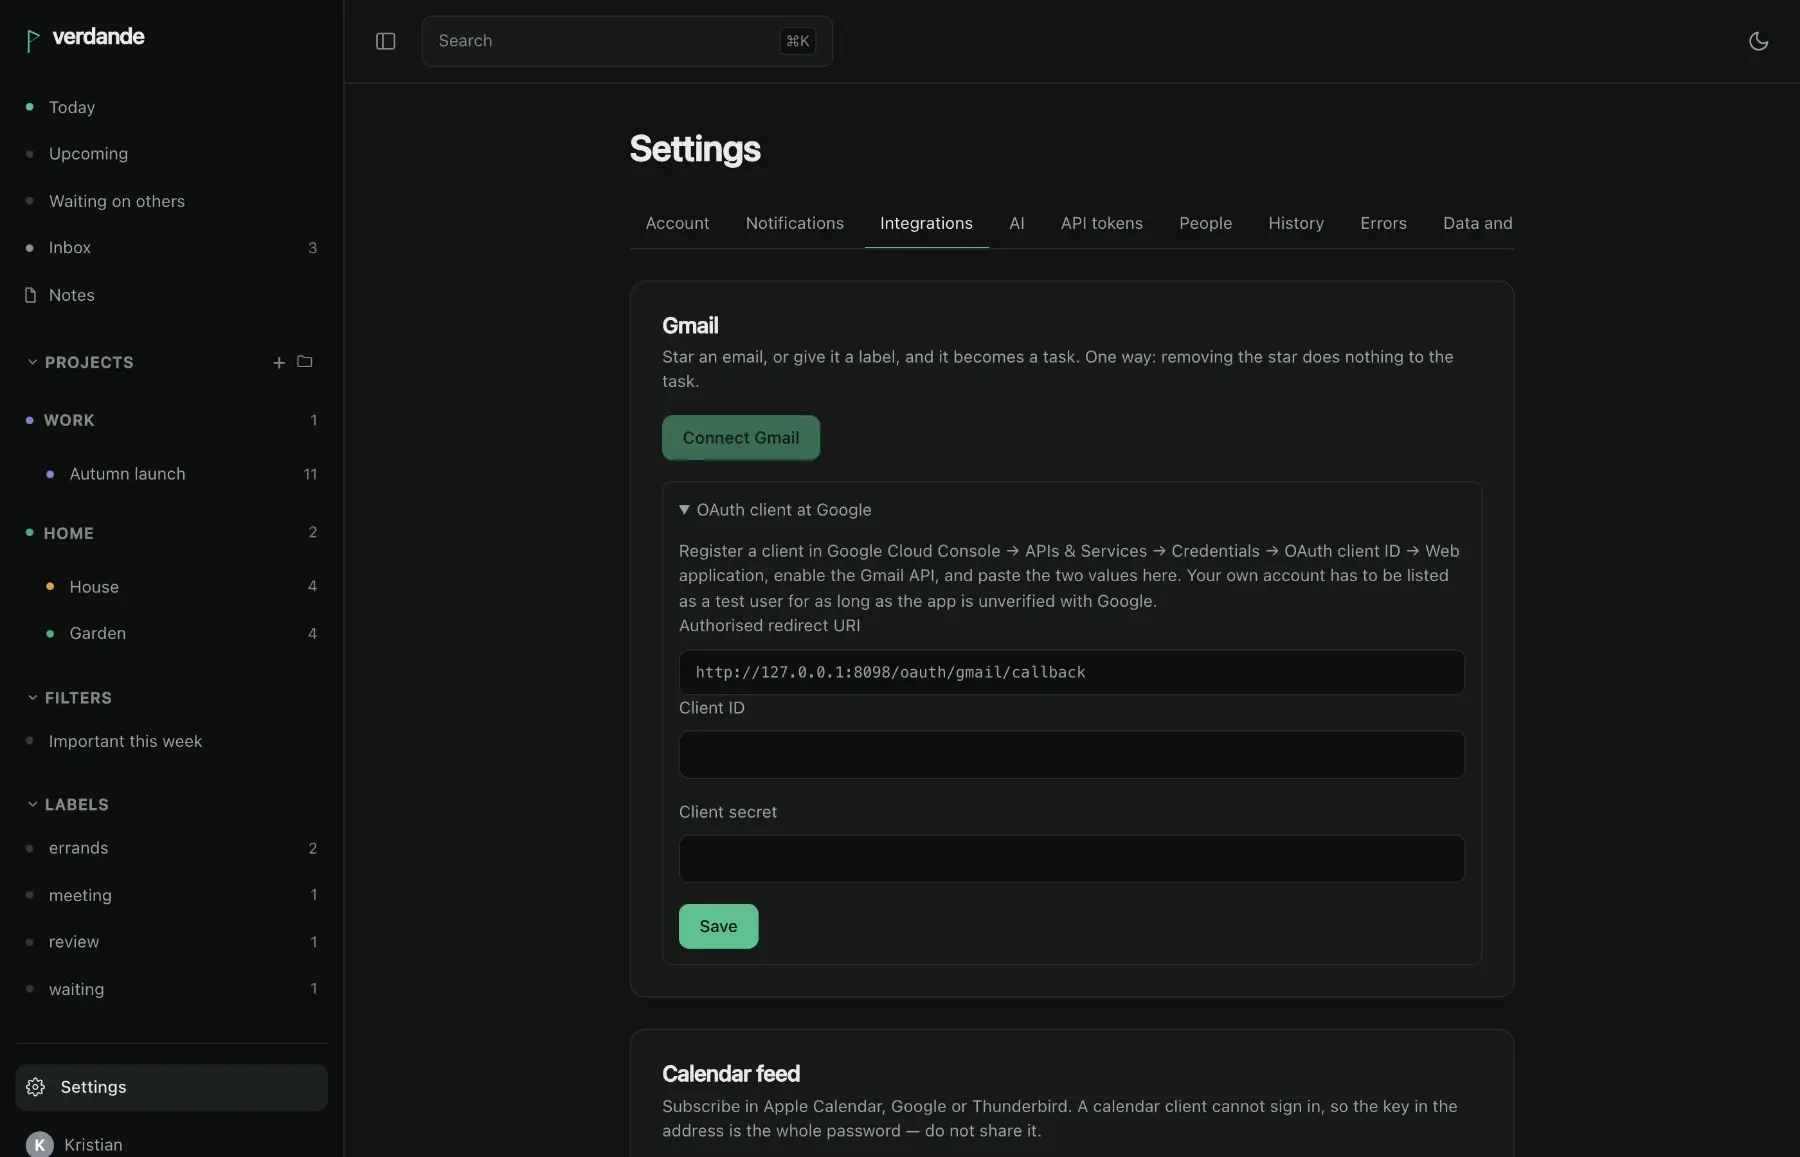
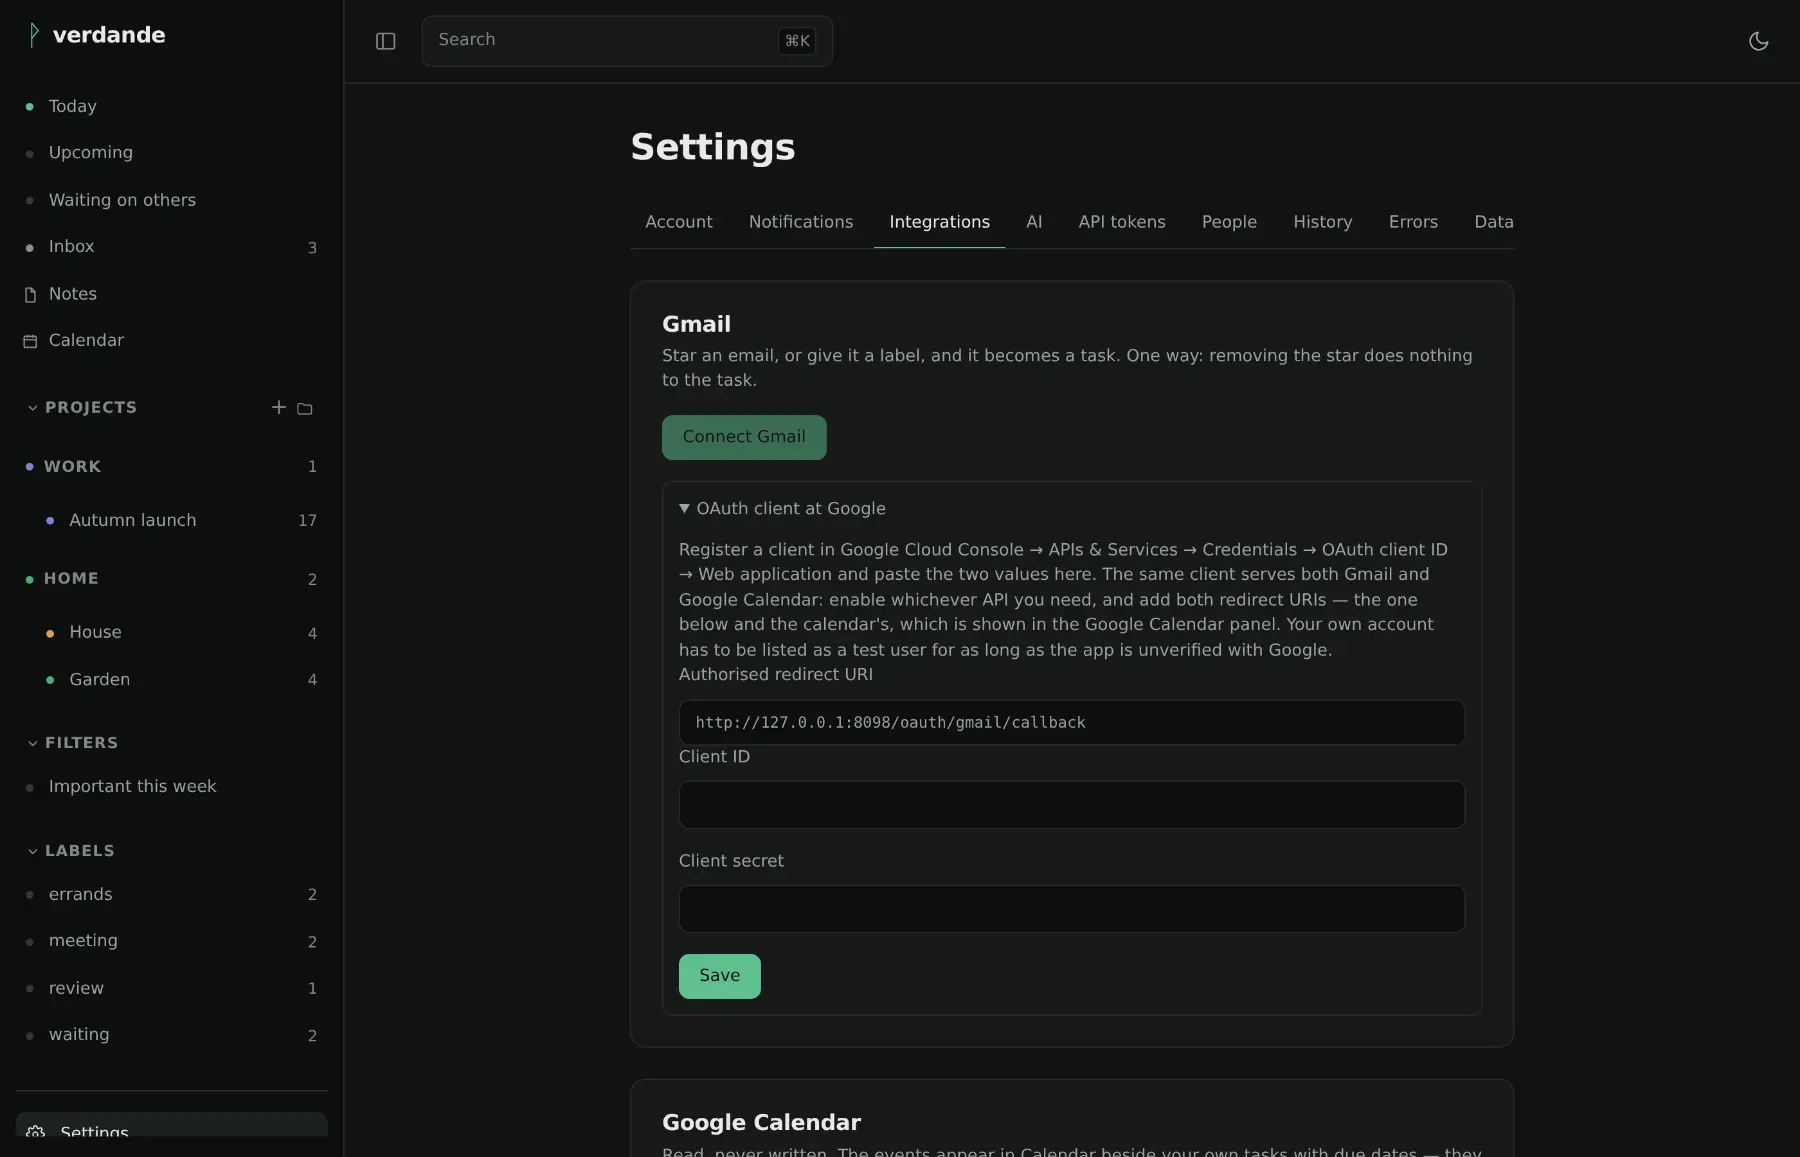
docs(site): add the new features and light screenshots of them
The landing page did not mention two things the app grew — sharing a note with a
person, and task durations — and its screenshots were all in the dark theme.

- Copy: a cell for sharing a note or a page (to a person, or by filing it in a
  project, with the Shared with me group), and one for how long a task takes (drawn
  to length on the calendar, dragged by its foot, kept when moved).

- Two new screenshots in the light theme, at the top of the gallery: the calendar
  drawing timed tasks to their real length, and a note somebody shared gathered
  under Shared with me. English throughout, like the rest of the site — the capture
  account is English, so the interface is.

The generator grew the demo data these need: a handful of timed tasks with lengths
across the week, and a note the colleague shares back to the owner. Every other
screenshot was recaptured from the current build in the same pass, so the whole set
reflects what ships today (the tidied note footer, and the rest).

diff --git a/web/scripts/generate-screenshots.js b/web/scripts/generate-screenshots.js
@@ -73,6 +73,11 @@ const SHOTS = [
 	{ name: 'detail', path: (ids) => `/opgave/${ids.detail}`, theme: 'dark' },
 	{ name: 'notes', path: '/noter', theme: 'dark', prepare: openMeetingNote },
 	{ name: 'notes-source', path: '/noter', theme: 'dark', prepare: showNoteSource },
+	// The new work, and in the light theme, which is what most people want to look
+	// at a landing page in. The calendar drawing tasks to their length, and a note
+	// somebody shared into the "Shared with me" group.
+	{ name: 'calendar-light', path: '/kalender', theme: 'light', prepare: showWeek },
+	{ name: 'notes-shared-light', path: '/noter', theme: 'light', prepare: openSharedNote },
 	{ name: 'delegated', path: '/uddelegeret', theme: 'dark' },
 	{ name: 'settings', path: '/indstillinger/integrationer', theme: 'dark' },
 	// Scrolled, because the themes are the second panel on the page and a picture
@@ -111,6 +116,13 @@ async function openMeetingNote(page) {
 async function showNoteSource(page) {
 	await openMeetingNote(page);
 	await page.getByRole('button', { name: 'Show as code' }).click();
+	await page.waitForTimeout(600);
+}
+
+async function openSharedNote(page) {
+	// The note Mette shared in, so the "Shared with me" group and its owner chip are
+	// what the picture is of rather than something the group happens to sit above.
+	await page.locator('button.row', { hasText: 'Packaging quotes' }).first().click();
 	await page.waitForTimeout(600);
 }
 
@@ -340,6 +352,23 @@ async function handOver(ids) {
 	await api(`/tasks/${ids.detail}/comments`, {
 		body: 'Room is booked for ten. Summer numbers are in the shared folder — the labels are still with the printer, I chase them Thursday.'
 	});
+
+	// A note of Mette's own, handed to the owner — so their Notes page has a
+	// "Shared with me" group with a real note in it, marked as hers. This is the
+	// other half of sharing: not the project path, but a page passed to a person.
+	const note = await api('/notes', {
+		body: `# Packaging quotes
+
+Three back, one still to come:
+
+- **Nordfelt** — 79 øre a bag at 2,000, plates included
+- **Kolding Karton** — 84 øre, faster, kinder about small runs
+- Bruun still owes me a number
+
+I'd lean Kolding for the first run and revisit at volume. #Autumn launch`
+	});
+	await api(`/notes/${note.id}/shares`, { user_id: ids.owner, role: 'editor' });
+
 	return { colleague: me.id };
 }
 
@@ -372,6 +401,8 @@ async function seed({ colleague, noteTitle }) {
 			d.getDate()
 		).padStart(2, '0')}`;
 	};
+
+	const me = await api('/auth/me', null, 'GET');
 
 	// Two headings over the projects, which is what the sidebar grew for.
 	const work = await api('/project-groups', { name: 'Work' });
@@ -419,6 +450,17 @@ async function seed({ colleague, noteTitle }) {
 		{ content: 'Drop the bike off for its service', due_date: day(0), priority: 3, labels: ['errands'] },
 		{ content: 'Water the greenhouse', due_date: day(0), recurrence_rule: 'FREQ=DAILY', project_id: garden.id },
 		{ content: 'Collect the parcel from the post office', due_date: day(0), labels: ['errands'] },
+
+		// A handful given a time and a length, so the calendar's week draws them to
+		// scale rather than as a row of identical blocks — a stand-up, a long
+		// planning block, a call, a review. Spread across the day and the days, so
+		// the picture is a week that has a shape.
+		{ content: 'Stand-up', due_date: day(0), due_time: '09:00', duration_min: 15, project_id: launch.id, section_id: inFlight.id },
+		{ content: 'Planning block', due_date: day(0), due_time: '10:00', duration_min: 90, priority: 2, project_id: launch.id, section_id: planning.id, labels: ['meeting'] },
+		{ content: 'Call with the printer', due_date: day(0), due_time: '13:30', duration_min: 30, project_id: launch.id, labels: ['waiting'] },
+		{ content: 'Interview: designer', due_date: day(1), due_time: '11:00', duration_min: 60, priority: 1, project_id: launch.id, section_id: inFlight.id },
+		{ content: 'Budget review', due_date: day(2), due_time: '14:00', duration_min: 45, priority: 1, project_id: launch.id, section_id: inFlight.id },
+		{ content: 'One-to-one with Mette', due_date: day(3), due_time: '15:30', duration_min: 30, project_id: launch.id },
 
 		// The next couple of weeks, so Upcoming and the month grid have something in
 		// them rather than a row of empty cells.
@@ -560,6 +602,7 @@ The opening notes are a task, so they can be ticked off: task:${detail.id}`
 	await api('/users', { email: 'anders@example.dk' });
 
 	return {
+		owner: me.id,
 		work: launch.id,
 		detail: detail.id,
 		invite: invite.link,

diff --git a/site/index.html b/site/index.html
@@ -928,6 +928,26 @@
 				<div class="shots">
 					<figure class="shot">
 						<img
+							src="screenshots/calendar-light.webp"
+							alt="A week in the calendar: timed tasks drawn to their length, a fifteen-minute stand-up short and a ninety-minute planning block tall, each on the day and at the time it is due."
+							width="1400"
+							height="900"
+							loading="lazy"
+						/>
+						<figcaption>The calendar draws a task to its length — drag its foot to change it.</figcaption>
+					</figure>
+					<figure class="shot">
+						<img
+							src="screenshots/notes-shared-light.webp"
+							alt="Notes with a Shared with me group at the top of the list, holding a note somebody else shared, marked with whose it is, open on the right."
+							width="1400"
+							height="900"
+							loading="lazy"
+						/>
+						<figcaption>A note shared with you, gathered under Shared with me.</figcaption>
+					</figure>
+					<figure class="shot">
+						<img
 							src="screenshots/board.webp"
 							alt="A project in board view: one column per section, with task cards showing due dates, labels and repetition."
 							width="1400"
@@ -1061,6 +1081,23 @@
 							Images are pasted or dragged in. <code>#project</code> and
 							<code>[[another note]]</code> are links, and a task shows what has been
 							written about it. Archive what is done with it; the bin is for mistakes.
+						</p>
+					</div>
+					<div class="cell">
+						<h3>Share a note, or a page</h3>
+						<p>
+							Hand a single note to a person — to read or to edit — without standing up
+							a project for it. Notes other people share with you gather under
+							<em>Shared with me</em>, each marked with whose it is. File it in a project
+							instead and everyone who can read the project reads the note.
+						</p>
+					</div>
+					<div class="cell">
+						<h3>How long it takes</h3>
+						<p>
+							A task can carry a length, and the calendar draws it to scale. Drag the
+							foot of a task to make it longer or shorter, or drag its body to another
+							day or time — the length comes along.
 						</p>
 					</div>
 					<div class="cell">
